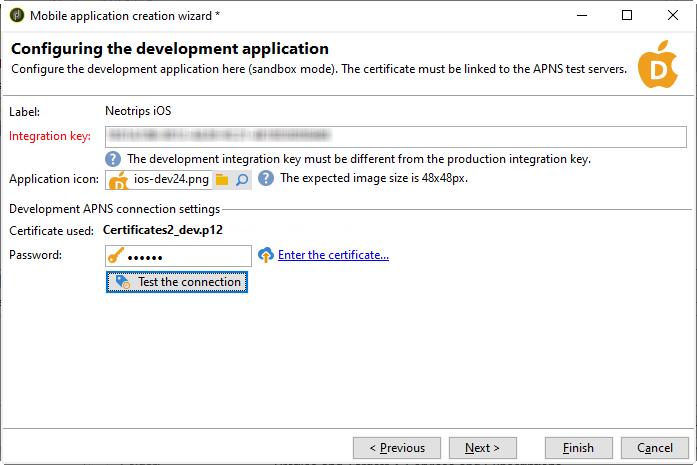
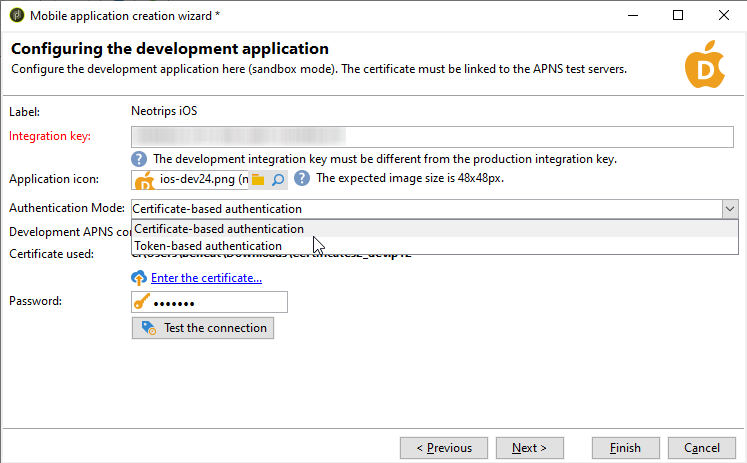
add ios authentication

diff --git a/help/delivery/using/configuring-the-mobile-application.md b/help/delivery/using/configuring-the-mobile-application.md
@@ -56,24 +56,19 @@ To learn more on how to configure Neotrips for Android and how to create a deliv
 
 ## Configuring iOS external account {#configuring-external-account-ios}
 
-For iOS, two connectors are available:
+For iOS, the iOS HTTP/2 connector sends notifications to the HTTP/2 APNS.
 
-* The iOS binary connector sends notifications on the legacy binary APNS server.
-* The iOS HTTP/2 connector sends notifications to the HTTP/2 APNS.
-
-To choose which connector you want to use, follow these steps:
+To configure this connector, follow these steps:
 
 1. Go to **[!UICONTROL Administration > Platform > External accounts]**.
 1. Select the **[!UICONTROL iOS routing]** external account.
-1. In the **[!UICONTROL Connector]** tab, fill in the **[!UICONTROL Access URL of the connector]** field:
-
-   For iOS HTTP2: http://localhost:8080/nms/jsp/iosHTTP2.jsp
-
-   ![](assets/nmac_connectors.png)
+1. In the **[!UICONTROL Connector]** tab, fill in the **[!UICONTROL Access URL of the connector]** field with the following URL: ```http://localhost:8080/nms/jsp/iosHTTP2.jsp```
 
    >[!NOTE]
    >
-   > You can also configure it as follow https://localhost:8080/nms/jsp/ios.jsp but we advise you to use version 2 of the connector.
+   > Starting Campaign 20.3 release, the iOS legacy binary connector is deprecated. If you are using this connector, you need to adapt your implementation accordingly. [Learn more](https://helpx.adobe.com/campaign/kb/migrate-to-http2.html)
+
+   ![](assets/nmac_connectors.png)
 
 1. Click **[!UICONTROL Save]**.
 
@@ -104,6 +99,16 @@ Your iOS connector is now configured. You can start creating your service.
 
    ![](assets/nmac_service_2.png)
 
+1. Create your iOS Development and Production applications. For more on this, refer to this [section](../../delivery/using/configuring-the-mobile-application.md#creating-ios-app).
+
+## Creating the iOS application {#creating-ios-app}
+
+After creating your service, you now need to create your iOS application:
+
+1. From your newly created service, click the **[!UICONTROL Add]** button to select the application type.
+
+   ![](assets/nmac_service_2.png) 
+
 1. The following window appears. Select **[!UICONTROL Create an iOS application]** and start by entering the **[!UICONTROL Label]**.
 
    ![](assets/nmac_ios_2.png)
@@ -131,19 +136,21 @@ In the following example, we add **mediaURl** and **mediaExt** to create rich pu
 
 1. Select one of the out-of-the-box icon from the **[!UICONTROL Application icon]** field to personalize mobile application in your service.
 
-1. Click the **[!UICONTROL Enter the certificate...]** link then select the authentication certificate and enter the password that was provided by the mobile application developer. You can click **[!UICONTROL Test the connection]** to be sure it is successful.
-
-   >[!NOTE]
-    >
-    >Apple requires different certificates for Development and Production versions of a same mobile application. You will need to configure the two separate applications in Adobe Campaign.
+1. Select the **[!UICONTROL Authentication mode]**, you can always change your authentication mode later on in the **[!UICONTROL Certificate]** tab or your mobile application.
+   *  **[!UICONTROL Certificate-based authentication]**: Select your p12 key with the **[!UICONTROL Enter the certificate...]** link then select the authentication certificate and enter the password that was provided by the mobile application developer.
+   * **[!UICONTROL Token-based authentication]**: Fill in the connection settings **[!UICONTROL Key ID]**, **[!UICONTROL Team ID]** and **[!UICONTROL Bundle ID]** then select your p8 certificate by clicking **[!UICONTROL Enter the private key]**. For more on **[!UICONTROL Token-based authentication]**, refer to [Apple documentation](https://developer.apple.com/documentation/usernotifications/setting_up_a_remote_notification_server/establishing_a_token-based_connection_to_apnsToken-based)
 
    ![](assets/nmac_ios_4.png)
+
+1. You can click **[!UICONTROL Test the connection]** to be sure it is successful.
 
 1. Click **[!UICONTROL Next]** to start configuring the production application and follow the same steps as detailed above.
 
    ![](assets/nmac_ios_5.png)
 
-1. Click **[!UICONTROL Finish]**. Your iOS application is now ready to be used in Campaign Classic.
+1. Click **[!UICONTROL Finish]**. 
+
+Your iOS application is now ready to be used in Campaign Classic.
 
 ## Creating an iOS rich notification {#creating-ios-delivery}
 
